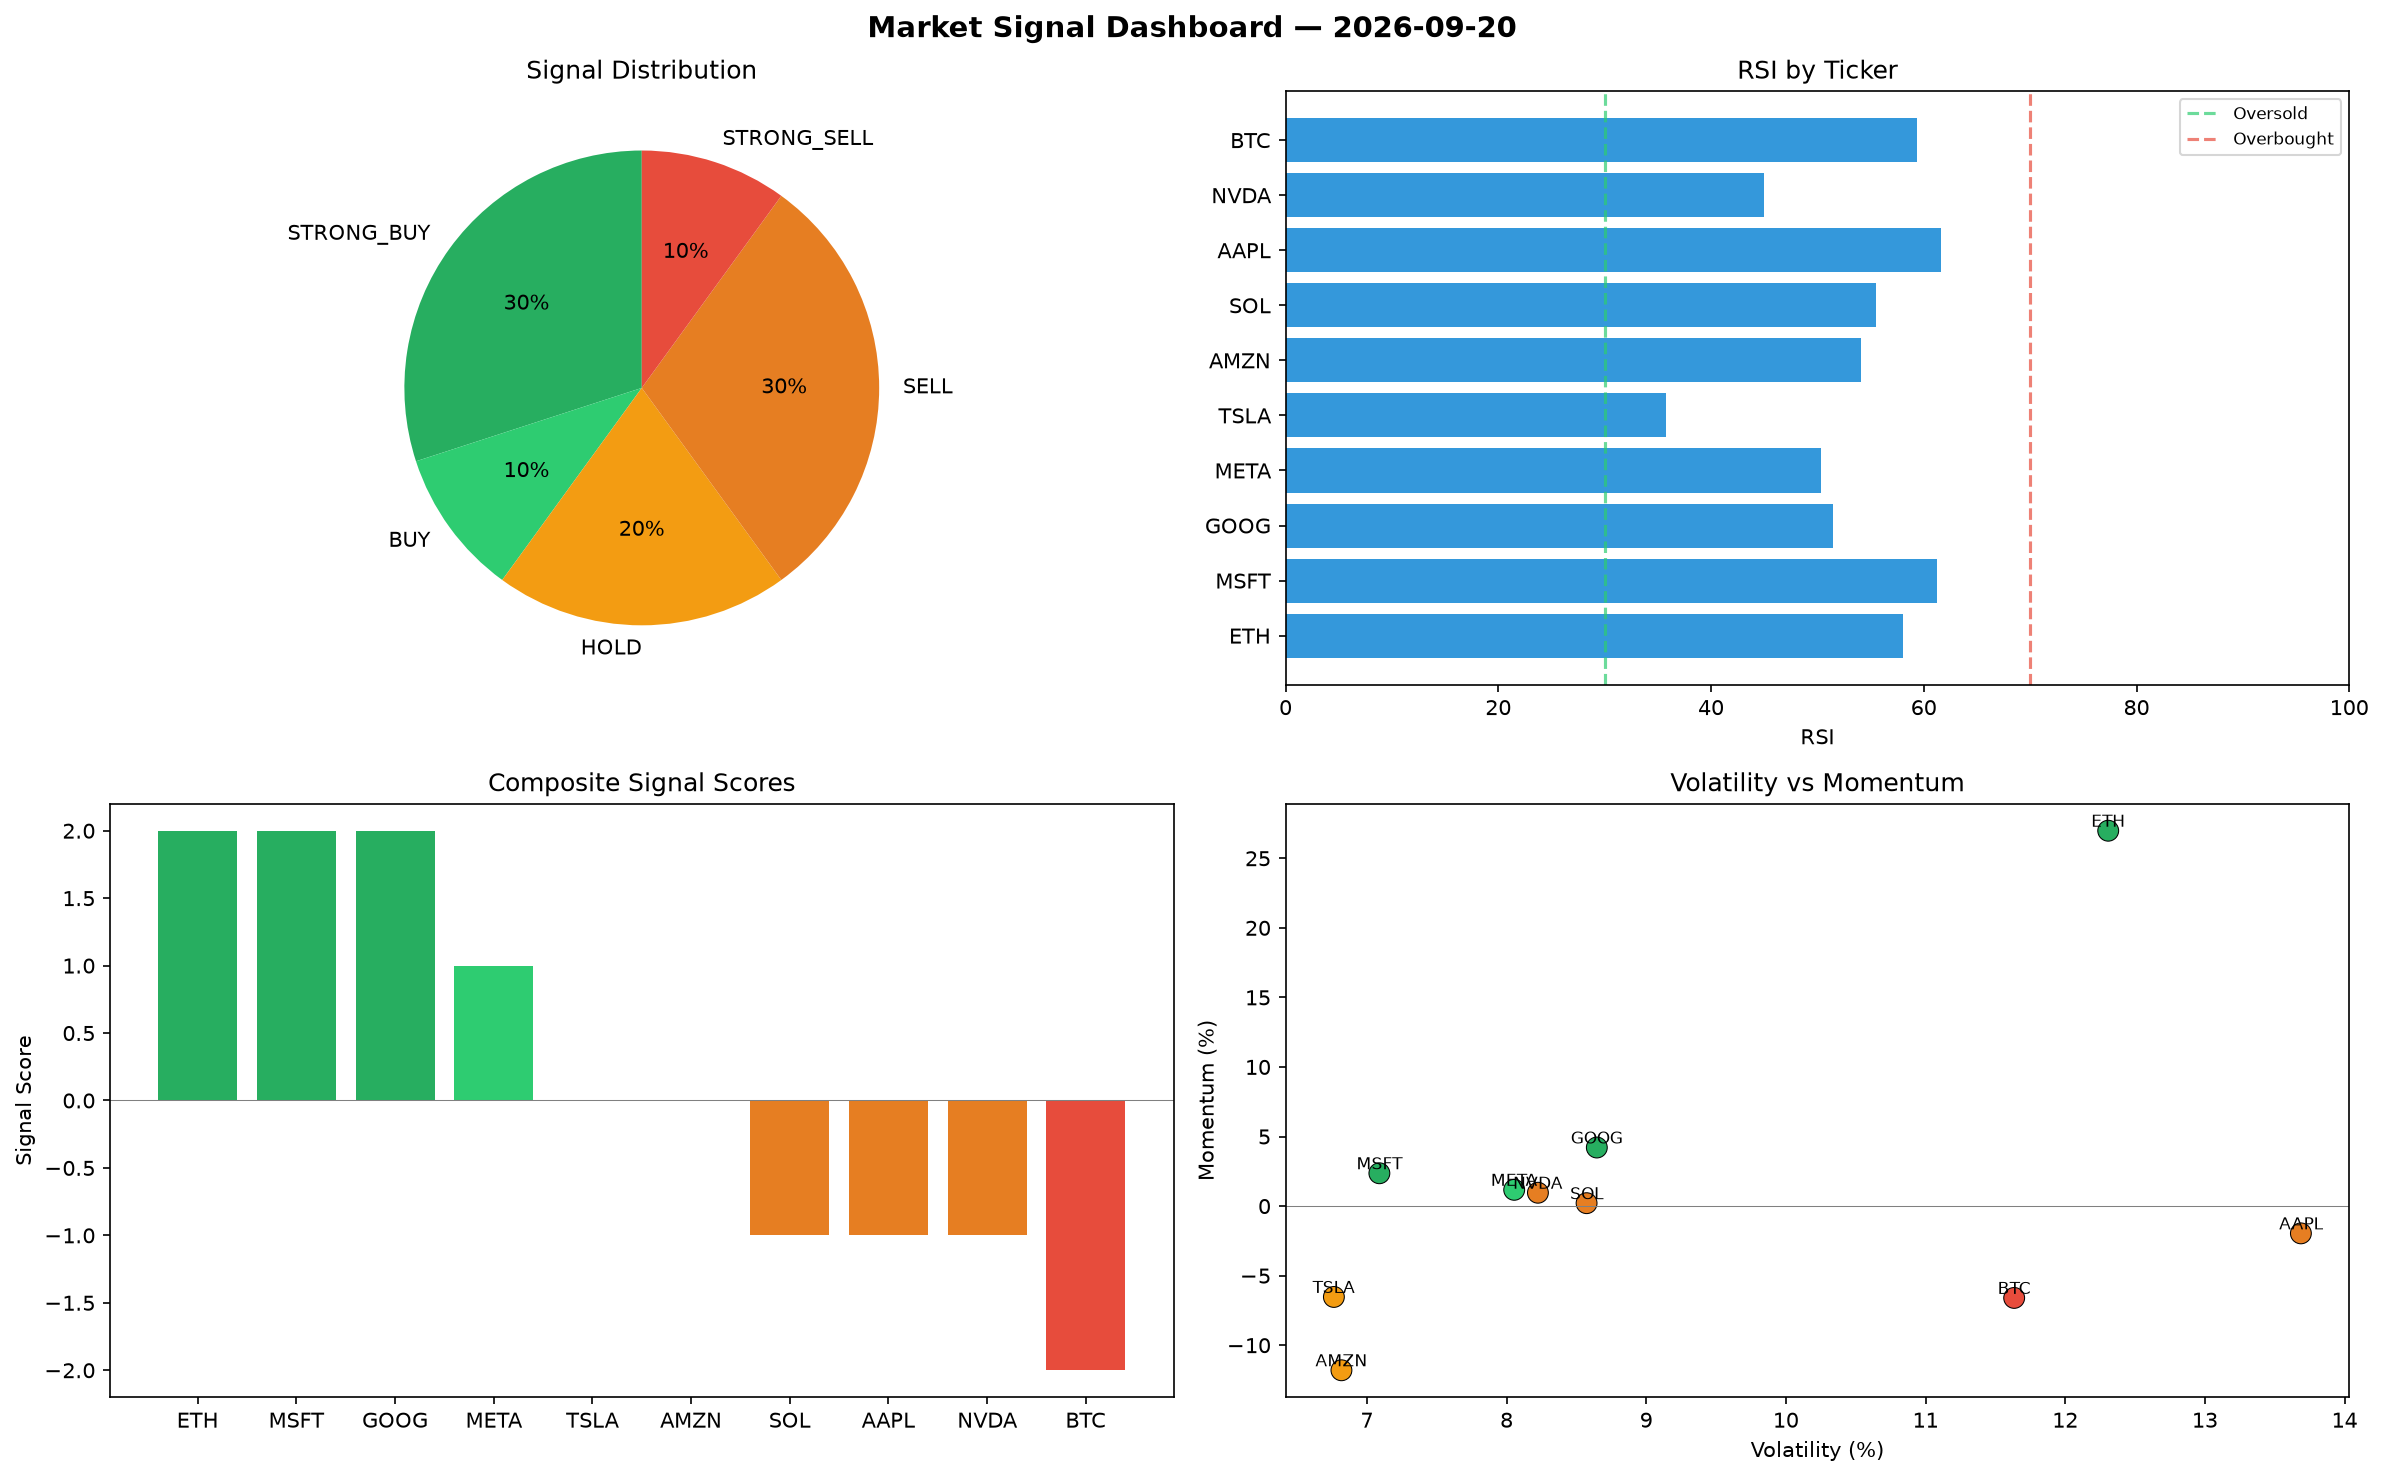
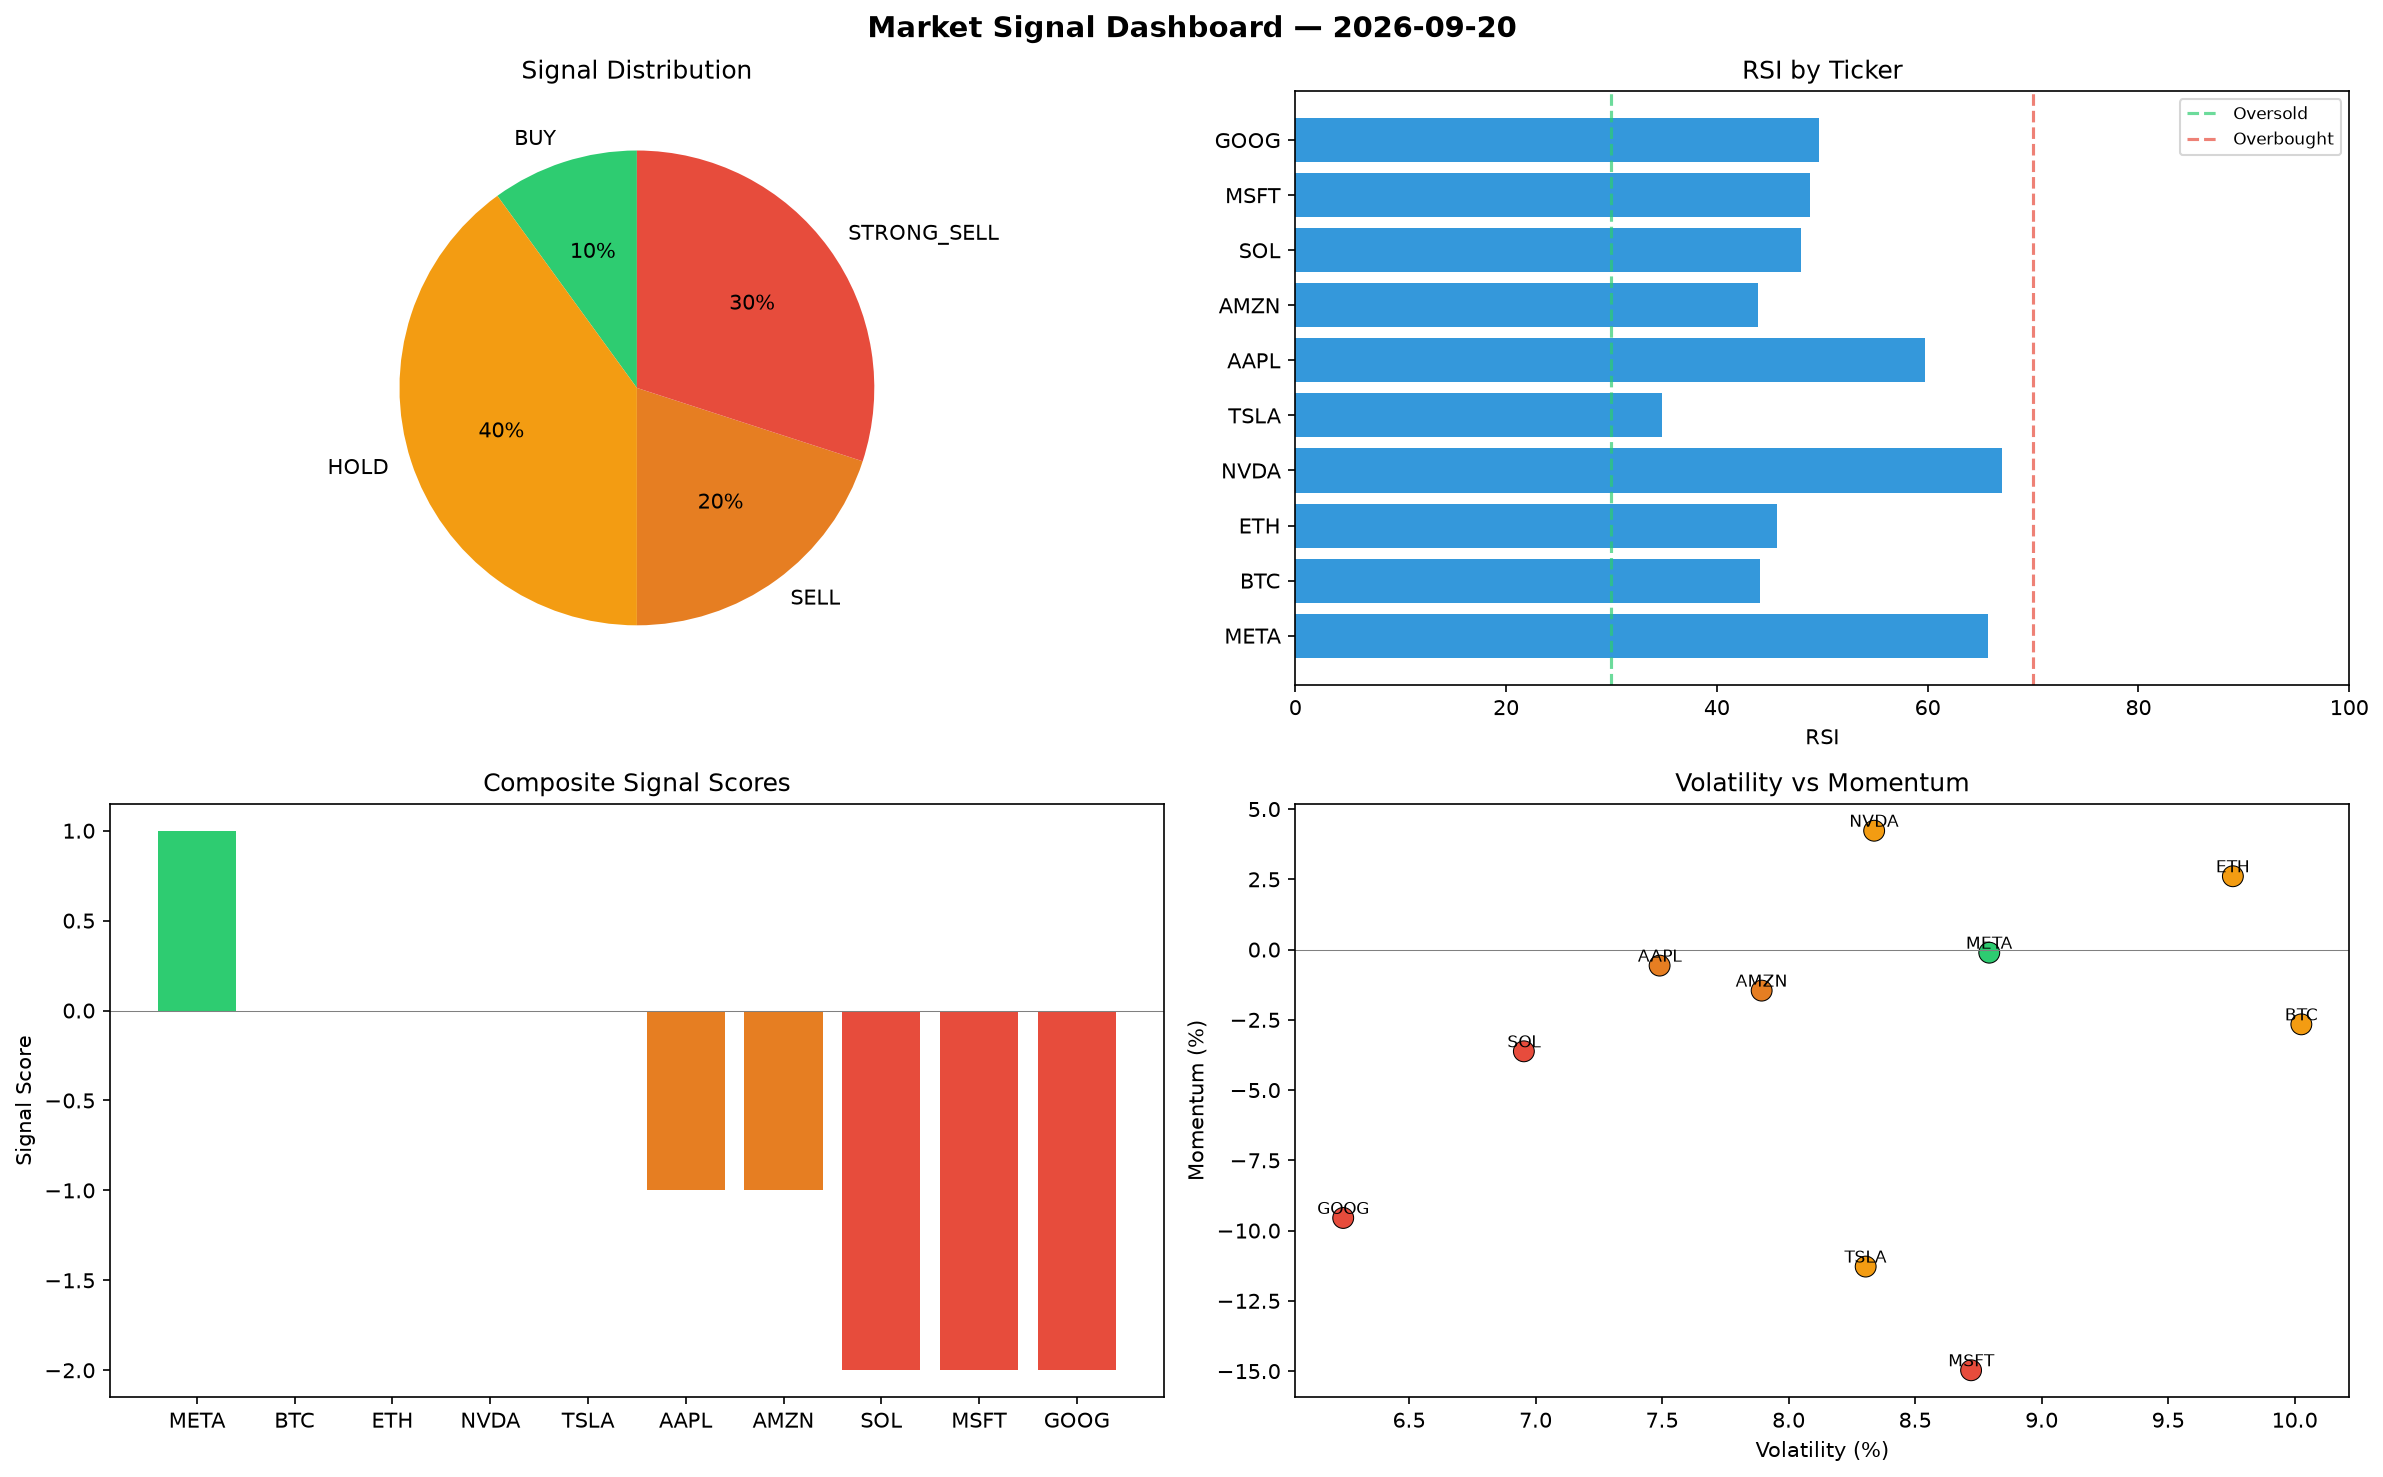
automated-bots: market signals 2026-09-20T17:34

diff --git a/logs/2026-09-20.md b/logs/2026-09-20.md
@@ -1,6 +1,6 @@
 # Market Signal Report — 2026-09-20
 
-**Run ID:** `6aa0110143` | **Buy:** 4 | **Sell:** 4 | **Hold:** 2
+**Run ID:** `0869582a71` | **Buy:** 1 | **Sell:** 5 | **Hold:** 4
 
 ![Dashboard](2026-09-20_dashboard.png)
 
@@ -8,28 +8,28 @@
 
 | Ticker | Price | Signal | Score | RSI | Momentum | Confidence |
 |--------|-------|--------|-------|-----|----------|------------|
-| ETH | $1936.72 | **STRONG_BUY** | 2 | 58.03 | 0.2698 | 0.5 |
-| MSFT | $1339.69 | **STRONG_BUY** | 2 | 61.21 | 0.0236 | 0.5 |
-| GOOG | $972.32 | **STRONG_BUY** | 2 | 51.49 | 0.0421 | 0.5 |
-| META | $3268.21 | **BUY** | 1 | 50.32 | 0.0117 | 0.25 |
-| TSLA | $917.28 | **HOLD** | 0 | 35.73 | -0.0653 | 0.0 |
-| AMZN | $1767.94 | **HOLD** | 0 | 54.13 | -0.118 | 0.0 |
-| SOL | $447.49 | **SELL** | -1 | 55.49 | 0.0021 | 0.25 |
-| AAPL | $1416.32 | **SELL** | -1 | 61.66 | -0.0196 | 0.25 |
-| NVDA | $1812.65 | **SELL** | -1 | 44.99 | 0.0096 | 0.25 |
-| BTC | $50.06 | **STRONG_SELL** | -2 | 59.32 | -0.066 | 0.5 |
+| META | $797.92 | **BUY** | 1 | 65.77 | -0.0011 | 0.25 |
+| BTC | $1828.95 | **HOLD** | 0 | 44.13 | -0.0266 | 0.0 |
+| ETH | $1658.49 | **HOLD** | 0 | 45.72 | 0.0261 | 0.0 |
+| NVDA | $1864.8 | **HOLD** | 0 | 67.06 | 0.0423 | 0.0 |
+| TSLA | $2370.66 | **HOLD** | 0 | 34.82 | -0.1128 | 0.0 |
+| AAPL | $1993.22 | **SELL** | -1 | 59.78 | -0.0057 | 0.25 |
+| AMZN | $4206.58 | **SELL** | -1 | 43.94 | -0.0146 | 0.25 |
+| SOL | $2750.89 | **STRONG_SELL** | -2 | 47.99 | -0.0362 | 0.5 |
+| MSFT | $2553.95 | **STRONG_SELL** | -2 | 48.87 | -0.1497 | 0.5 |
+| GOOG | $3024.78 | **STRONG_SELL** | -2 | 49.7 | -0.0955 | 0.5 |
 
 ## Delta vs Yesterday
 
 | Ticker | Today | Yesterday | Price Change | Signal Changed |
 |--------|-------|-----------|-------------|----------------|
-| ETH | STRONG_BUY | HOLD | 📉 -41.65% | ⚠ YES |
-| MSFT | STRONG_BUY | BUY | 📉 -15.54% | ⚠ YES |
-| GOOG | STRONG_BUY | STRONG_SELL | 📉 -74.8% | ⚠ YES |
-| META | BUY | HOLD | 📈 238.26% | ⚠ YES |
-| TSLA | HOLD | STRONG_SELL | 📉 -68.11% | ⚠ YES |
-| AMZN | HOLD | STRONG_SELL | 📈 323.49% | ⚠ YES |
-| SOL | SELL | STRONG_SELL | 📉 -86.67% | ⚠ YES |
-| AAPL | SELL | STRONG_BUY | 📉 -58.12% | ⚠ YES |
-| NVDA | SELL | STRONG_BUY | 📉 -42.97% | ⚠ YES |
-| BTC | STRONG_SELL | STRONG_SELL | 📉 -98.68% | — |
+| META | BUY | HOLD | 📉 -17.41% | ⚠ YES |
+| BTC | HOLD | STRONG_SELL | 📉 -51.6% | ⚠ YES |
+| ETH | HOLD | HOLD | 📉 -50.04% | — |
+| NVDA | HOLD | STRONG_BUY | 📉 -41.33% | ⚠ YES |
+| TSLA | HOLD | STRONG_SELL | 📉 -17.58% | ⚠ YES |
+| AAPL | SELL | STRONG_BUY | 📉 -41.06% | ⚠ YES |
+| AMZN | SELL | STRONG_SELL | 📈 907.64% | ⚠ YES |
+| SOL | STRONG_SELL | STRONG_SELL | 📉 -18.05% | — |
+| MSFT | STRONG_SELL | BUY | 📈 61.01% | ⚠ YES |
+| GOOG | STRONG_SELL | STRONG_SELL | 📉 -21.6% | — |
